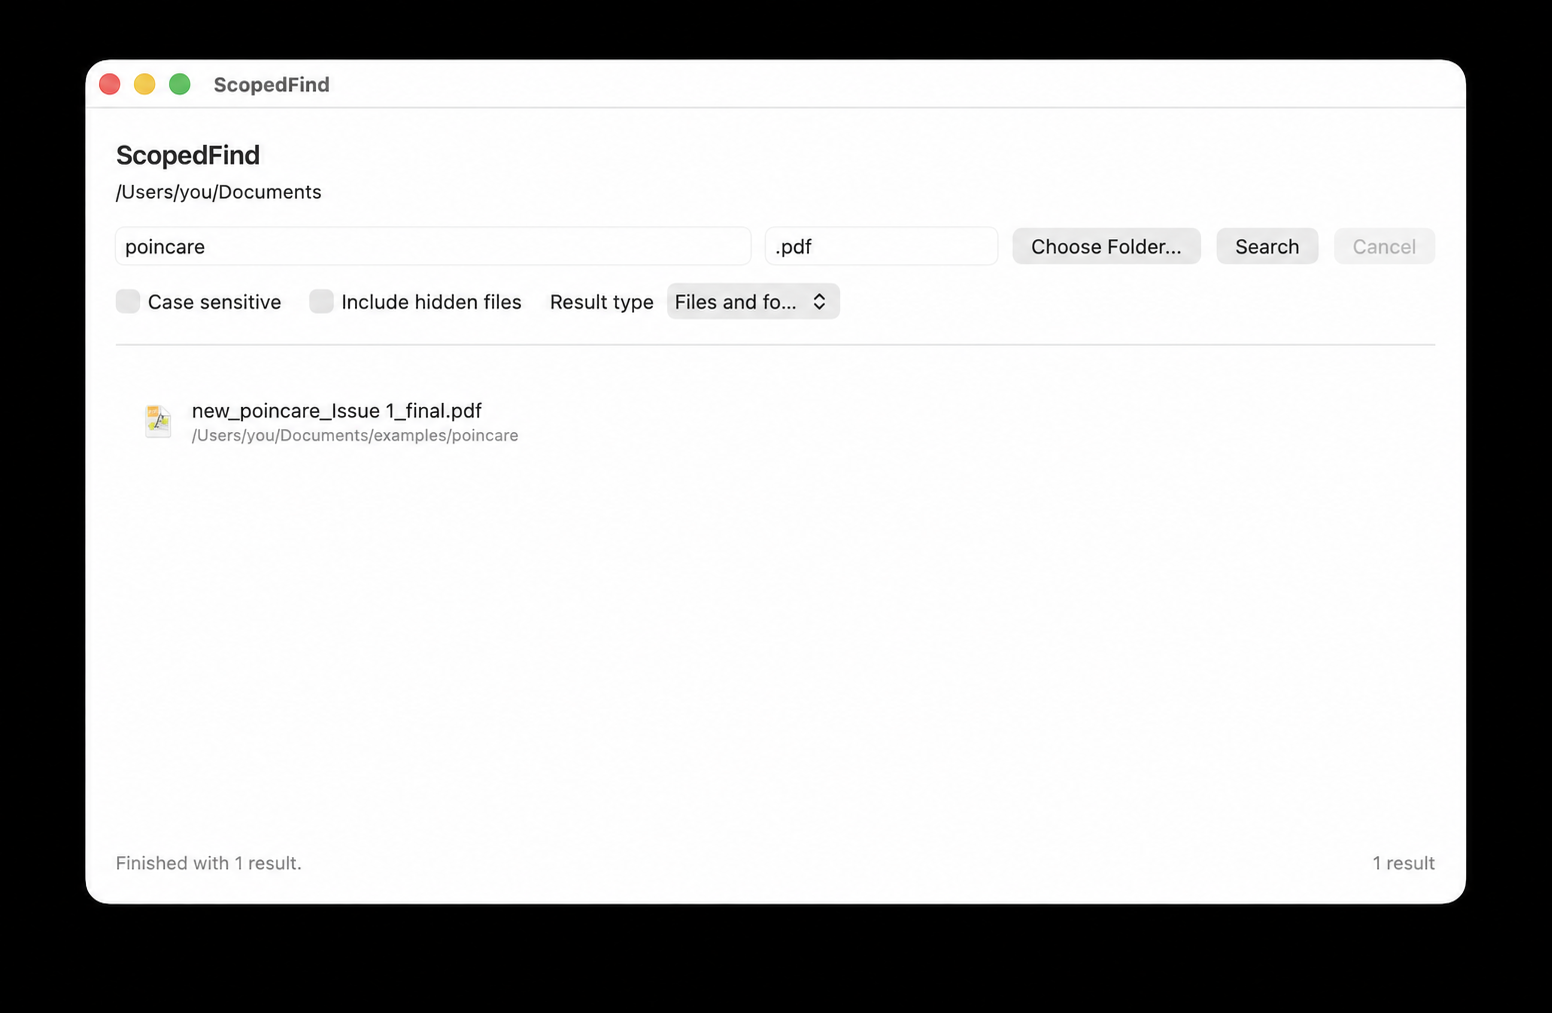
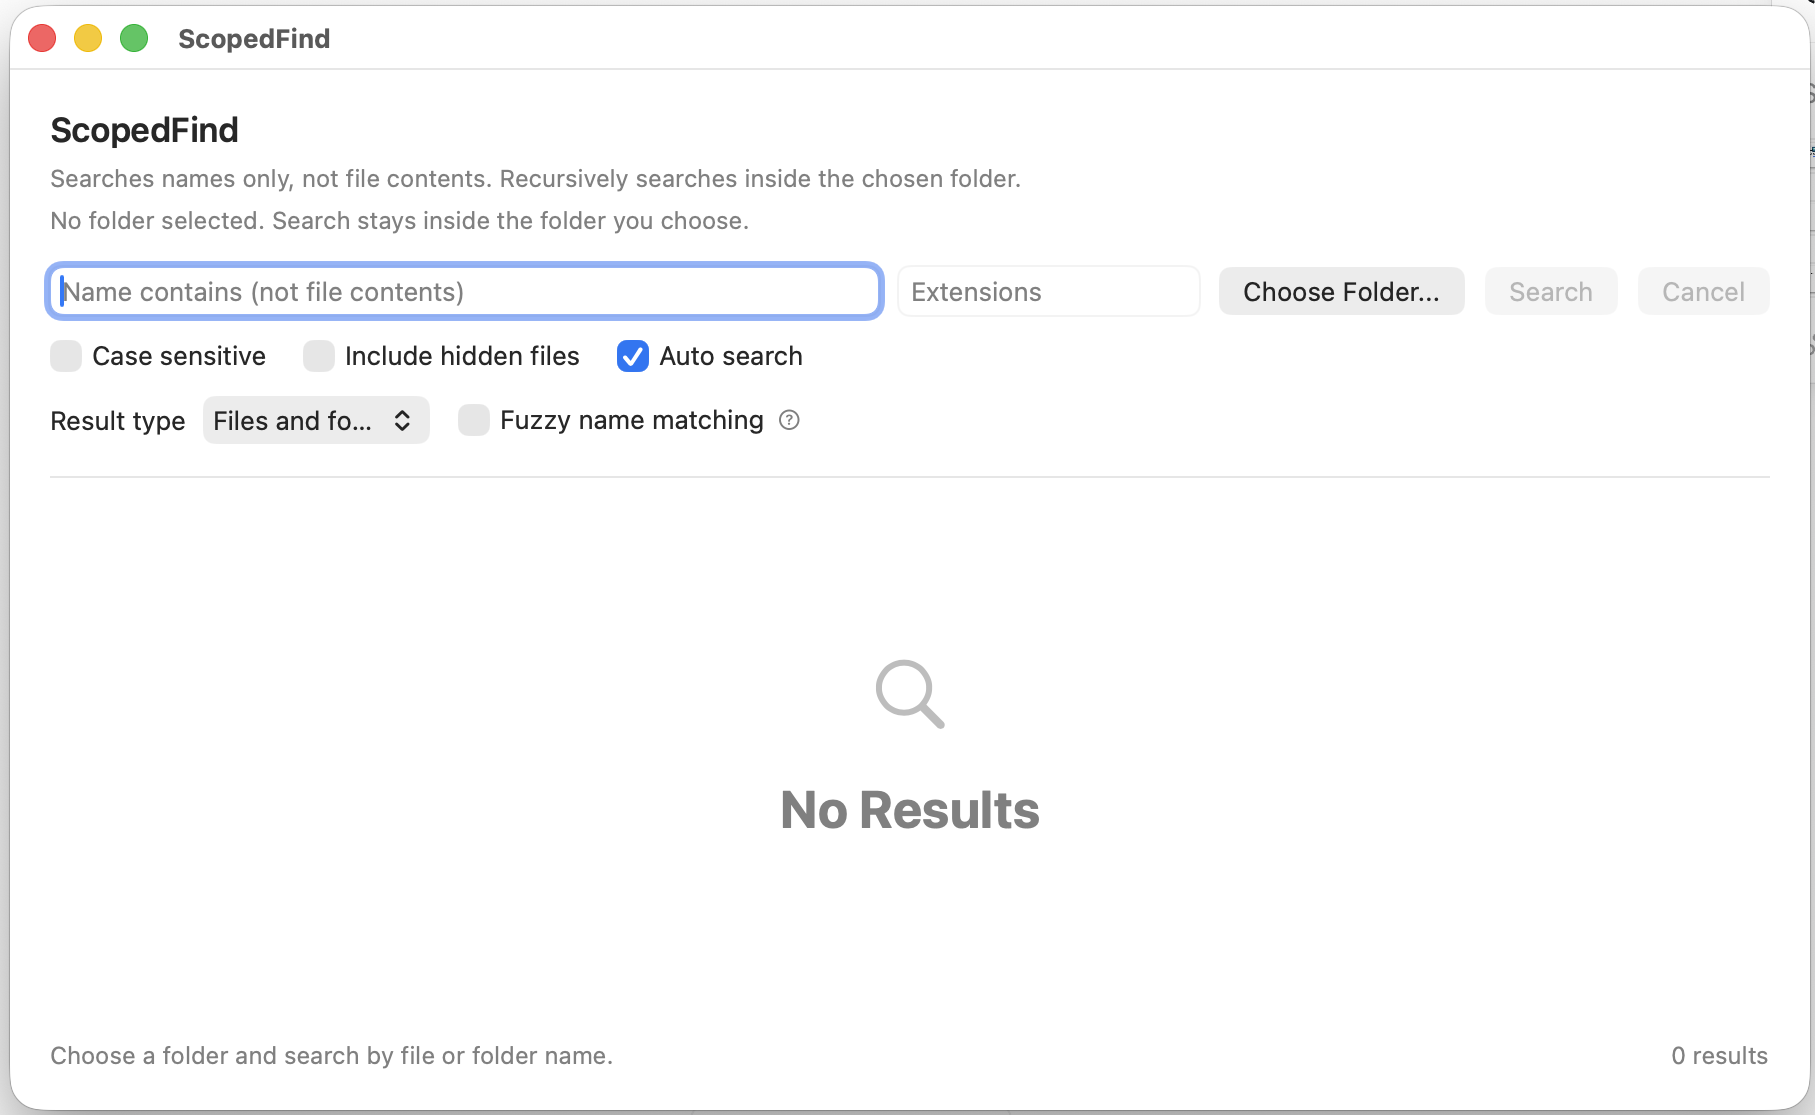
Clarify fuzzy name matching

Changed region(s): [[0.0, 0.0, 1.0, 1.0], [0.433, 0.7038, 0.5876, 0.7651], [0.4639, 0.5814, 0.5258, 0.6426]]

diff --git a/ScopedFind/Views/ContentView.swift b/ScopedFind/Views/ContentView.swift
@@ -3,6 +3,9 @@ import AppKit
 
 struct ContentView: View {
     @StateObject private var viewModel = SearchViewModel()
+    @State private var isShowingFuzzyHelp = false
+
+    private let fuzzyHelpText = "Fuzzy matches typed characters in order. For example, sf finds ScopedFind."
 
     var body: some View {
         VStack(alignment: .leading, spacing: 16) {
@@ -106,15 +109,6 @@ struct ContentView: View {
             .toggleStyle(.checkbox)
 
             HStack(spacing: 14) {
-                Picker("Name match", selection: $viewModel.matchMode) {
-                    ForEach(SearchMatchMode.allCases) { mode in
-                        Text(mode.label).tag(mode)
-                    }
-                }
-                .pickerStyle(.segmented)
-                .frame(width: 240)
-                .help(viewModel.matchMode.helpText)
-
                 Picker("Result type", selection: $viewModel.searchTarget) {
                     ForEach(SearchTarget.allCases) { target in
                         Text(target.label).tag(target)
@@ -122,6 +116,34 @@ struct ContentView: View {
                 }
                 .pickerStyle(.menu)
                 .frame(width: 190)
+
+                HStack(spacing: 6) {
+                    Toggle("Fuzzy name matching", isOn: fuzzyNameMatchingBinding)
+
+                    Button {
+                        isShowingFuzzyHelp.toggle()
+                    } label: {
+                        Image(systemName: "questionmark.circle")
+                            .imageScale(.small)
+                            .foregroundStyle(.secondary)
+                            .padding(3)
+                            .contentShape(Rectangle())
+                    }
+                    .buttonStyle(.plain)
+                    .onHover { isHovering in
+                        isShowingFuzzyHelp = isHovering
+                    }
+                    .popover(isPresented: $isShowingFuzzyHelp, arrowEdge: .top) {
+                        Text(fuzzyHelpText)
+                            .font(.callout)
+                            .padding(12)
+                            .frame(width: 280, alignment: .leading)
+                    }
+                    .help(fuzzyHelpText)
+                    .accessibilityAddTraits(.isButton)
+                    .accessibilityLabel("Fuzzy name matching help")
+                }
+                .toggleStyle(.checkbox)
             }
         }
     }
@@ -185,6 +207,14 @@ struct ContentView: View {
         }
 
         return selectedFolder.standardizedFileURL.lastPathComponent == "Applications"
+    }
+
+    private var fuzzyNameMatchingBinding: Binding<Bool> {
+        Binding {
+            viewModel.matchMode == .fuzzy
+        } set: { isEnabled in
+            viewModel.matchMode = isEnabled ? .fuzzy : .contains
+        }
     }
 
     private var statusColor: Color {

diff --git a/README.md b/README.md
@@ -35,7 +35,7 @@ Building from source is still available for users who prefer to inspect and comp
 - Native folder picker
 - Case-sensitive or case-insensitive filename search
 - Optional extension filtering, such as `swift`, `.pdf`, or `jpg,png`
-- Contains or fuzzy filename matching
+- Optional fuzzy filename matching
 - Searches file and folder names only, not file contents
 - Recursive search inside the selected folder
 - Result type filtering for files only, folders/apps only, or both
@@ -79,10 +79,17 @@ ScopedFind searches file and folder names only. It does not search inside docume
 
 When Auto search is enabled, ScopedFind starts a new search about 1.2 seconds after you stop typing or change a search option.
 
-The Name match control has two modes:
+By default, the name field uses contains matching:
 
-- Contains: `report` matches names containing `report`.
-- Fuzzy: `sf` matches names where `s` and `f` appear in that order, such as `ScopedFind`. Spaces in the query are ignored in fuzzy mode.
+- `report` matches names containing `report`.
+
+If Fuzzy name matching is enabled, ScopedFind matches names where the typed characters appear in order:
+
+- `sf` matches `ScopedFind`.
+- `rpt` can match `report-final.txt`.
+- Spaces in the query are ignored in fuzzy mode.
+
+Fuzzy name matching is still filename/folder-name search only. It is not typo correction, ranked `fzf` search, or file-content search.
 
 ## Why Not Finder Search?
 